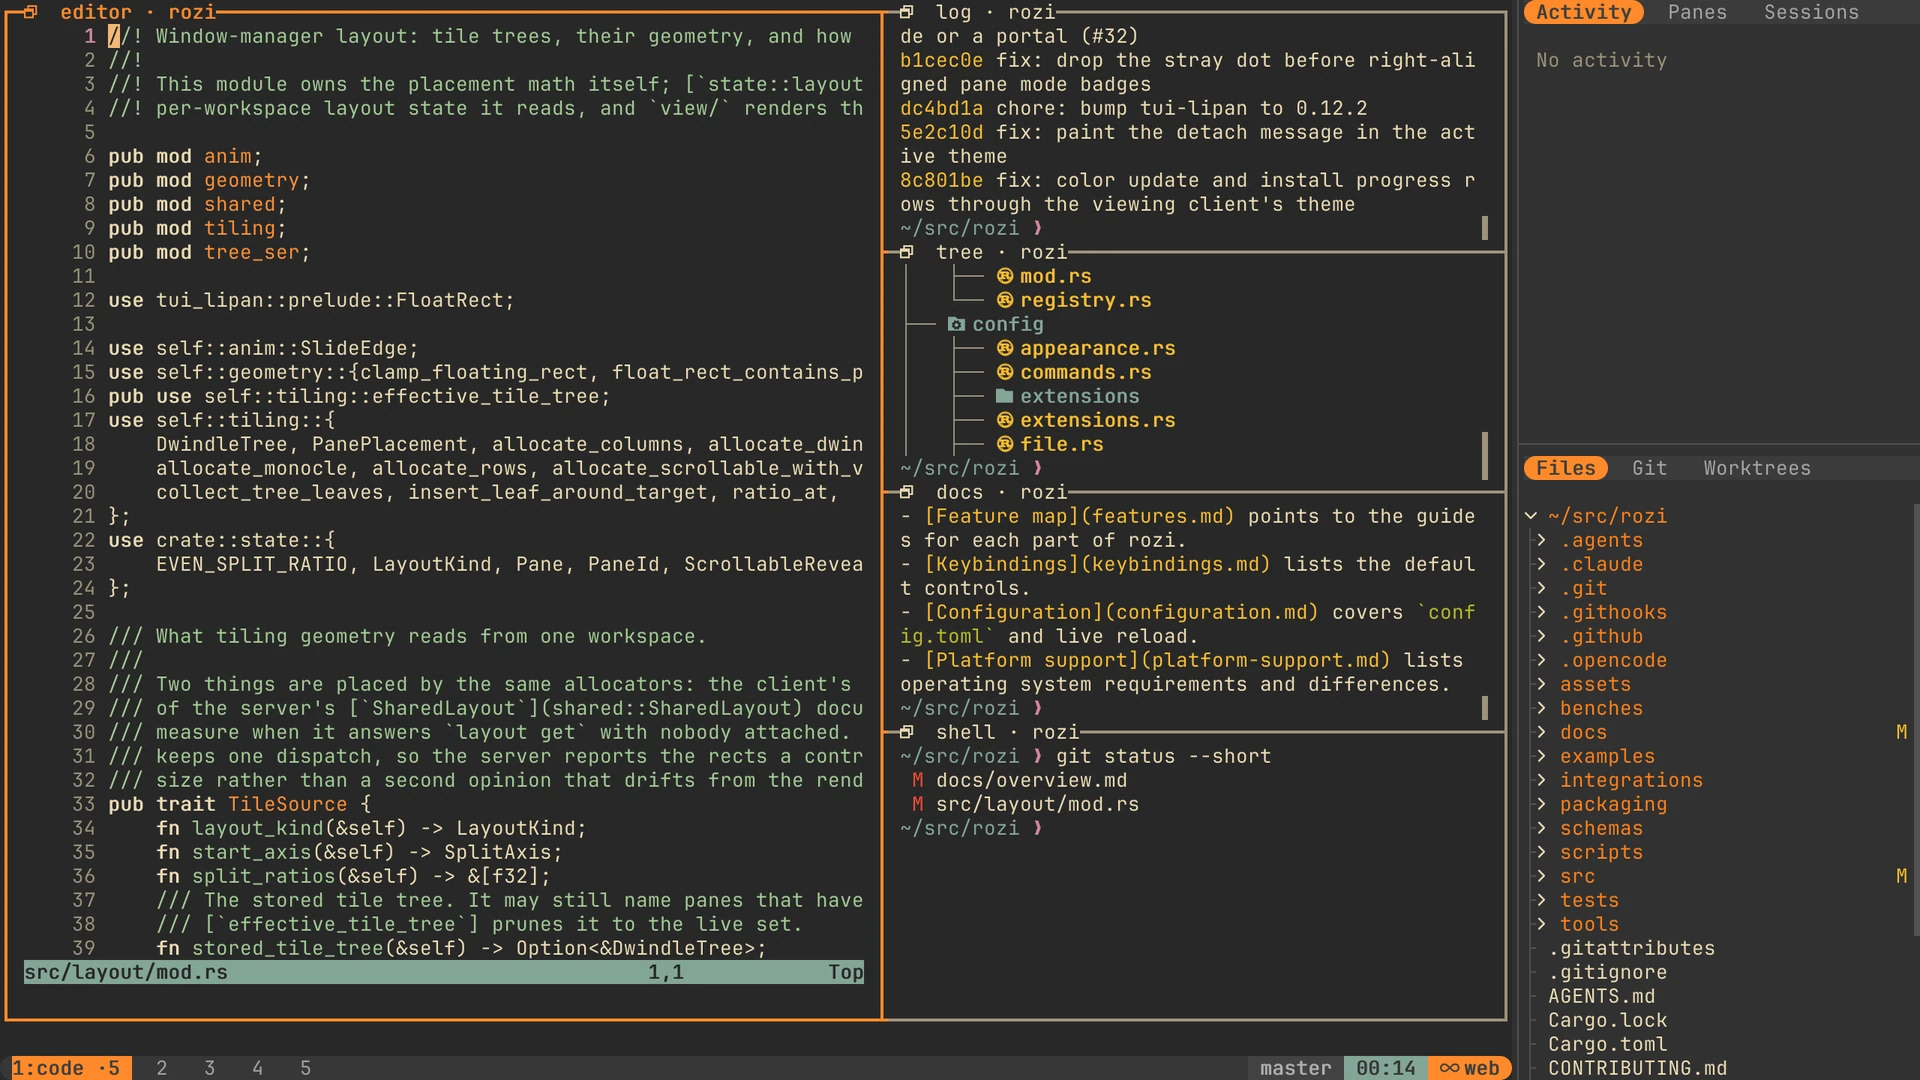
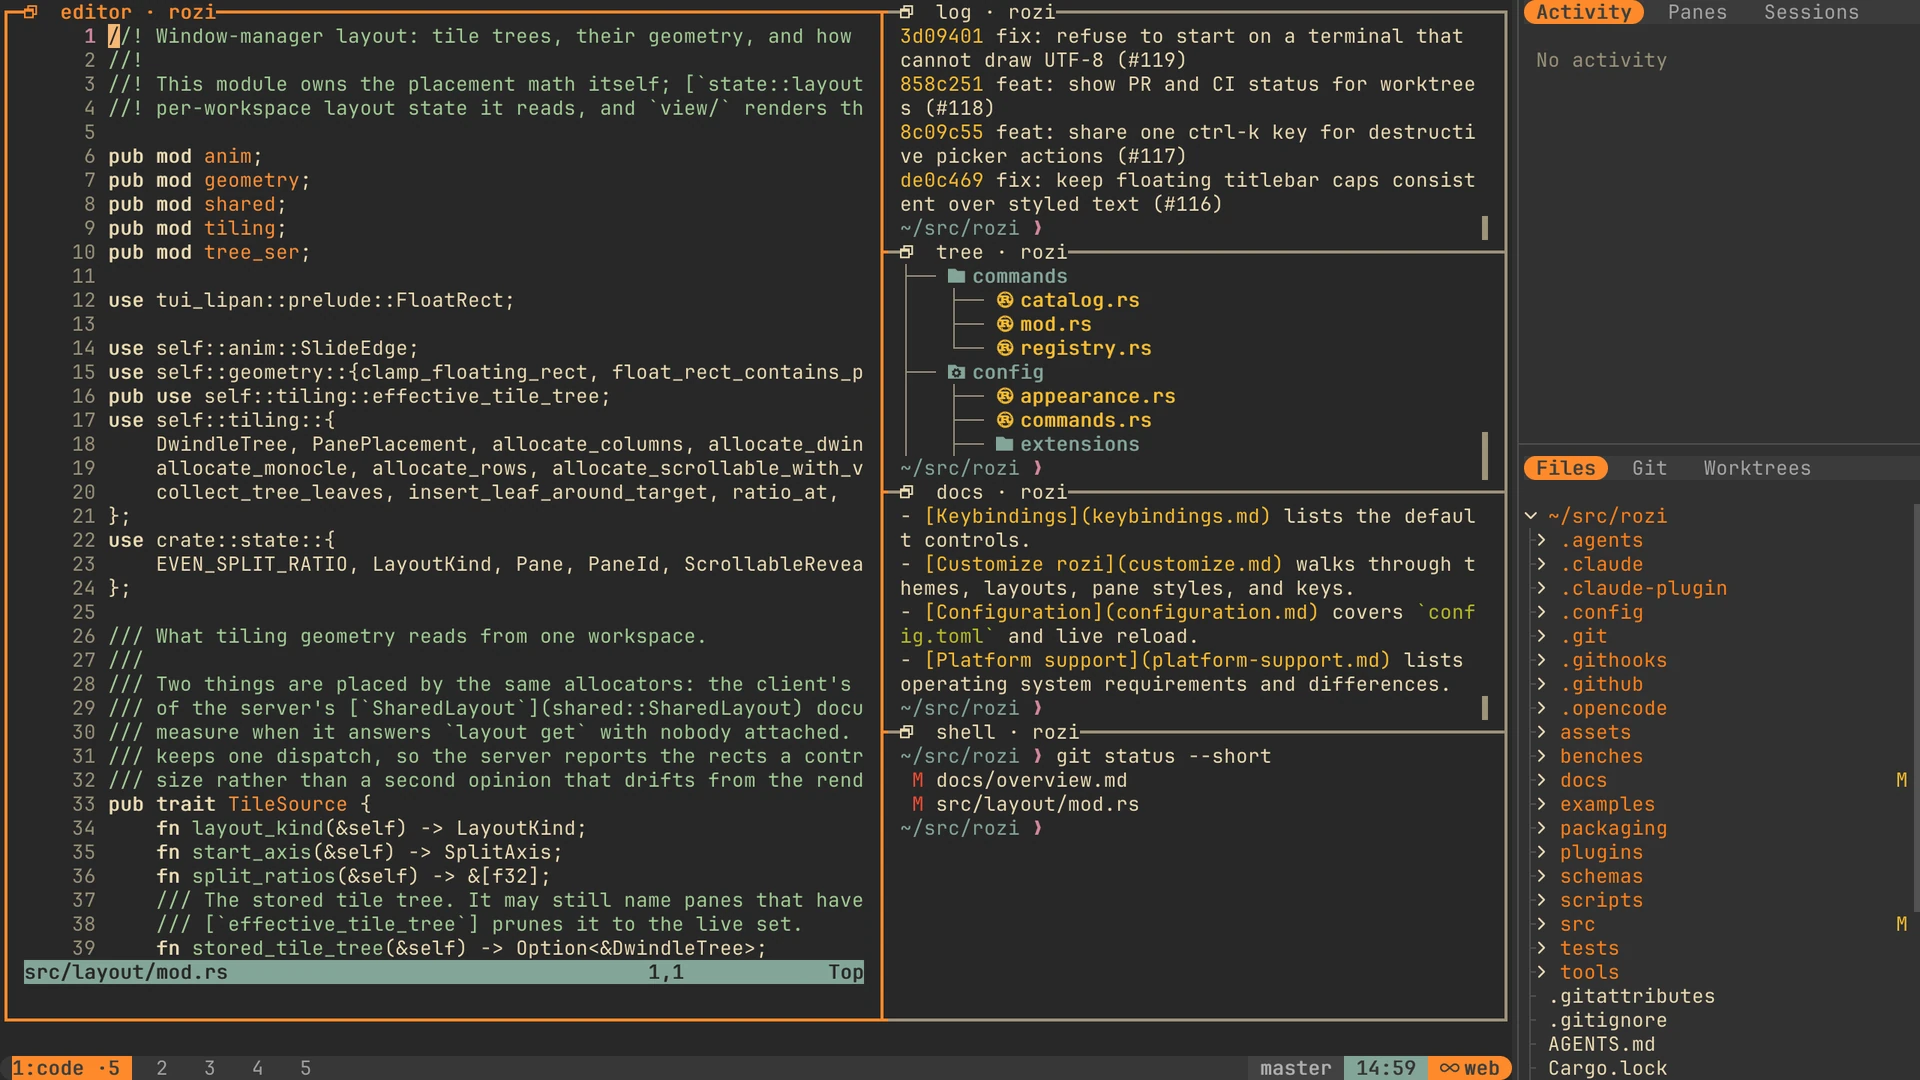
docs: explain sidebar docking and capture the redesigned UI

diff --git a/docs/sidebar.md b/docs/sidebar.md
@@ -1,13 +1,14 @@
 # Sidebar
 
-The sidebar is a panel beside your panes with tabs for agent activity, panes, sessions, files, Git
-changes, and worktrees. This page covers opening and navigating it, what each tab shows, and how to
+The sidebar provides optional left and right docks beside your panes with tabs for agent activity,
+panes, sessions, files, Git changes, and worktrees. This page covers opening and navigating it, what each tab shows, and how to
 configure tabs or add your own.
 
 The sidebar belongs to your client. It is never part of a shared session layout.
 
 <CaptureGallery title="~/src/rozi — web">
 <img src="./assets/captures/sidebar.webp" alt="The sidebar on the left showing the Panes tab, listing each pane in the workspace beside the panes themselves" data-caption="The Panes tab lists every pane in the session. Ctrl+A, then PageDown moves to the next tab.">
+<img src="./assets/captures/sidebar-docks.webp" alt="Left and right sidebar docks with three independently sized panels each" data-label="Two docks" data-caption="Both docks share space with the workspace; panel assignments survive compaction.">
 </CaptureGallery>
 
 ## Open the sidebar
@@ -23,7 +24,9 @@ While the sidebar is visible, these command keys work without focusing it:
 | `PageUp` | Previous tab |
 | `\` | Switch between one and two panels |
 
-Switching to one panel keeps both panels' tab assignments, so switching back restores them.
+Choose one to three panels independently for each dock in **Settings → Bars → Sidebar**. Highlighting a
+choice leaves the layout unchanged; confirm it to apply. The `\` command and focused `s` key toggle
+one and two panels in the active dock.
 
 Clicking a row runs its action without moving keyboard focus away from the pane. The sidebar is not
 part of the normal `Tab` focus order.
@@ -42,8 +45,9 @@ After the `B` command key focuses the sidebar:
 | `Tab`, `Shift+Tab` | Next or previous tab |
 | `h/l`, arrows, `Space` | Collapse, expand, or toggle directories |
 | `Ctrl+Shift+Left/Right`, `Ctrl+Shift+h/l` | Reorder the active tab |
-| `Ctrl+Up/Down`, `Ctrl+k/j` | Focus the other panel |
-| `Ctrl+Shift+Up/Down`, `Ctrl+Shift+k/j` | Move the active tab to the other panel |
+| `Ctrl+Up/Down`, `Ctrl+k/j` | Focus the previous or next panel in this dock |
+| `Ctrl+Left/Right`, `Ctrl+h/l` | Focus the other dock |
+| `Ctrl+Shift+Up/Down`, `Ctrl+Shift+k/j` | Move the active tab to the previous or next panel |
 | `Shift+Left/Right`, `Shift+h/l` | Resize the sidebar |
 | `Shift+Up/Down`, `Shift+k/j` | Resize the panel split |
 | `s` | Toggle one or two panels |
@@ -52,7 +56,8 @@ After the `B` command key focuses the sidebar:
 With the mouse, drag the sidebar's outer edge to resize it, within the same 16 to 80 columns that
 `width` allows. Drag the divider between panels to change the split.
 
-rozi saves tab order, panel assignment, width, split state, and split ratio to `config.toml`.
+rozi saves tab order, visibility preferences, placement, dock widths, panel counts, and panel weights
+to `config.toml`.
 Whether the sidebar is visible and which tab is selected are not saved.
 
 ## Activity
@@ -140,7 +145,7 @@ repository, when it is loading, or when changes are unavailable. In a remote ses
 on the remote host's `PATH`.
 
 Files and Git refresh while they are on screen. They stop refreshing when you hide the sidebar or
-switch both panels to other tabs.
+switch every visible panel to other tabs.
 
 ## Worktrees
 
@@ -184,31 +189,51 @@ settings.
 
 ## Configure tabs and panels
 
+<CaptureGallery title="Manage Sidebar Tabs">
+<img src="./assets/captures/sidebar-manager.webp" alt="The searchable Sidebar Tabs manager showing each tab's visibility and dock location" data-caption="Select a tab to show, hide, locate, or move it. Ctrl+P opens layout presets.">
+</CaptureGallery>
+
+Open **Manage Sidebar Tabs** from Settings or the command palette. Search by name, then select a tab
+to show or hide it, assign it to a dock and panel, or locate it. The manager distinguishes available,
+hidden, and unavailable tabs. Empty panels remain drag targets, and the manager is available even
+when every tab is hidden. Use `Ctrl+P` in the manager to select and apply a layout preset.
+
+**Left sidebar** and **Right sidebar** toggle docks independently. The global `b` command hides or
+restores the current combination. **Focus other sidebar dock** and **Move sidebar tab to other dock**
+are also available in the command palette and can be bound by their action IDs,
+`sidebar-other-dock` and `sidebar-move-to-other-dock`.
+
 ```toml
 [sidebar]
-visible = false
-width = 32
-position = "left"
 tabs = ["activity", "panes", "sessions", "files", "git", "worktrees"]
-panels = [["activity", "panes", "sessions"], ["files", "git", "worktrees"]]
-split = true
-split_ratio = 0.5
+layout = { left = { visible = true, width = 32, panel_count = 2, panels = [
+  { weight = 0.4, tabs = ["activity", "panes", "sessions"] },
+  { weight = 0.6, tabs = ["files", "git", "worktrees"] },
+] }, right = { visible = false, width = 32, panel_count = 1, panels = [{ weight = 1.0, tabs = [] }] }, hidden = [] }
 background_follows_canvas = false
 gap = true
 background = true
 tab_style = "padded"
 ```
 
-| Key | Effect |
-| --- | --- |
-| `tabs` | Available tabs, by id. A repeated id is ignored after its first use. |
-| `panels` | Which tabs go in the top and bottom panel. Without `panels`, all tabs share one panel. |
-| `split` | `false` shows one panel but keeps both saved groups. |
-| `position` | `"left"` or `"right"`. Also available under **Settings → Position**. |
-| `background_follows_canvas` | Paint the sidebar with the canvas backdrop instead of the raised panel fill. |
-| `gap` | Keep one blank row between each tab bar and its list. |
-| `background` | Paint the tab strip as a distinct bar. When off, the strip matches the list below it. |
-| `tab_style` | `padded`, `round`, or `arrow` — the same end caps as workbar tabs. |
+The `layout` value may also be written using nested TOML tables. Every tab has one saved location.
+Reducing a dock's panel count folds surplus groups into its last displayed panel. Increasing it
+restores those groups and their proportions. Reordering a compacted group changes the order within
+each tab's saved home panel; transferring to another displayed panel or dock changes its home.
+Hiding a tab or dock preserves assignments. Narrow terminals temporarily reduce both dock widths
+while leaving the saved widths intact. The central workspace keeps at least 20 columns when the
+terminal has room; terminals of 20 columns or fewer retain at least half for the workspace.
+
+`background_follows_canvas`, `gap`, `background`, and `tab_style` apply to both docks. These keep the
+same appearance controls as the former sidebar.
+
+### Migrate an existing configuration
+
+The former `visible`, `width`, `position`, `panels`, `split`, and `split_ratio` keys produce an explicit
+migration diagnostic. rozi resolves them into `layout` in memory, preserving unknown tab IDs and
+custom definitions. The next layout save writes `layout` and removes those geometry keys. You can
+also replace them manually using the example above. An explicit `layout` takes precedence. Saves
+preserve tab definitions and unrelated settings; malformed TOML is reported and left untouched.
 
 When `background` is on, the tab strip uses a raised sidebar fill, or the `element` colour when
 `background_follows_canvas` is on.
@@ -279,8 +304,8 @@ evaluate it. `{line}` is rejected in `run` and
 ### Extension sidebar tabs
 
 Extensions add tabs with `[[sidebar_tabs]]` in their manifest, using the same launcher and command
-forms. Their ids are `<extension>.<name>`. They start in the first panel until you move them, and
-their placement is kept even while the extension is disabled or broken. See
+forms. Their ids are `<extension>.<name>`. They may suggest an initial dock and panel. Your saved placement takes precedence and survives
+disablement, failed loads, updates, removal, and reinstallation. See
 [Extensions](extensions.md#sidebar-tabs).
 
 ### Security

diff --git a/docs/configuration.md b/docs/configuration.md
@@ -572,21 +572,22 @@ See [Popups and scratch panes](layouts-and-panes.md#popups-and-scratch-panes).
 
 | Key | Type | Default | Constraints and behavior |
 | --- | --- | --- | --- |
-| `visible` | bool | `false` | Whether the sidebar is open at startup. |
-| `width` | integer | `32` | Clamped to `16..=80`. |
-| `position` | string | `"left"` | `"left"` or `"right"`. |
-| `tabs` | array | `["activity", "panes", "sessions", "files", "git", "worktrees"]` | Replaces the list of available tabs. IDs must be unique. |
-| `panels` | array of one or two string arrays | `[["activity", "panes", "sessions"], ["files", "git", "worktrees"]]` | Orders tab IDs into panels. Unknown and duplicate IDs are skipped. |
-| `split` | bool | `true`, or inferred from the number of panels | Shows two panels. |
-| `split_ratio` | float | `0.4` | Finite value clamped to `0.15..=0.85`. |
+| `tabs` | array | `["activity", "panes", "sessions", "files", "git", "worktrees"]` | Tab definitions. IDs must be unique; hiding a tab does not remove its definition. |
+| `layout.left`, `layout.right` | table | See below | Independent dock preferences. |
+| `layout.hidden` | string array | `[]` | Hidden tab IDs; placement and definitions remain saved. |
+| `layout.<dock>.visible` | bool | `false` | Startup visibility. Runtime toggles remain client-local. |
+| `layout.<dock>.width` | integer | `32` | Clamped to `16..=80`; both docks share the available width. |
+| `layout.<dock>.panel_count` | integer | left `2`, right `1` | `1..=3`; reducing the count retains saved panels. |
+| `layout.<dock>.panels` | table array | left session/repository groups, right empty | Each table contains `weight` (finite, positive) and ordered `tabs` (IDs). Unknown IDs retain their placement. |
 | `background_follows_canvas` | bool | `false` | Paints the sidebar with the canvas background instead of the raised panel fill. |
 | `gap` | bool | `true` | Keeps one row between each panel's tab bar and its list. |
 | `background` | bool | `true` | Paints the tab strip as a distinct bar: a raised sidebar fill, or `element` when the sidebar follows the canvas. Off, the strip matches the body. |
 | `tab_style` | string | `"padded"` | `"padded"`, `"round"`, or `"arrow"`. Round and arrow need `nerd_icons`. |
 
-A configured tab that `panels` leaves out is added to the first panel, except `worktrees`, which
-joins the panel holding `git` or `files`. A `panels` entry naming an extension tab that is not
-currently loaded is kept without a warning.
+Unplaced tabs join the first left panel; Files, Git, and Worktrees join the second. Extension
+suggestions apply only to tabs without a saved placement. The default left panel weights are `0.4`
+and `0.6`; the right panel weight is `1.0`. See [Sidebar](sidebar.md#configure-tabs-and-panels)
+for restoration rules, the tab manager, and migration from the former geometry keys.
 
 ### Tab tables
 

diff --git a/docs/extensions.md b/docs/extensions.md
@@ -750,11 +750,24 @@ A tab's public ID is `<extension-id>.<name>`, so an extension can add tabs but n
 built-in one. If a `config.toml` tab has the same ID, it wins and the extension's tab is skipped.
 Out-of-range values are clamped without a warning, unlike the same settings in `config.toml`.
 
-Extension tabs go in the first panel unless `[sidebar] panels` already places them. Users can drag
-them anywhere, and `rozi` remembers the arrangement as it does for built-in tabs. A placement for a
-tab whose extension is disabled, updating, or failing to load is kept silently and restored when the
-extension returns. It is dropped only after the extension is gone from disk, and only the next time
-the user rearranges the sidebar; `rozi` never rewrites the layout on load.
+An extension tab may declare `suggested_location = { dock = "right", panel = 2 }`, with a one-based
+panel number from 1 to 3. An explicit saved placement wins. Tabs without a suggestion start in the
+first left panel. The user's hidden state and placement survive disabling, failed loads, updates,
+removal, and reinstallation. Unavailable tabs remain listed in **Manage Sidebar Tabs**.
+
+Extensions may also declare `[[sidebar_presets]]` with `name`, `label`, and `layout`. The layout uses
+the same `left`, `right`, and `hidden` fields as `[sidebar] layout`. Names of this extension's tabs
+are automatically namespaced inside panel tab lists. Preset names become `<extension>.<name>`.
+Users select and apply a preset through `Ctrl+P` in **Manage Sidebar Tabs**; installing or reloading
+an extension never applies one. Applying copies the preset into user preferences, preserving saved
+assignments omitted by the preset. Later edits belong to the user.
+
+```toml
+[[sidebar_presets]]
+name = "review"
+label = "Review workspace"
+layout = { right = { visible = true, panel_count = 1, panels = [{ weight = 1.0, tabs = ["agents"] }] } }
+```
 
 ### Navigation targets
 

diff --git a/.agents/skills/rozi-extension/SKILL.md b/.agents/skills/rozi-extension/SKILL.md
@@ -133,7 +133,7 @@ entries = [
   never substituted for a built-in one, and a `config.toml` tab of the same id wins. Out-of-range
   values are clamped silently here rather than warned about. Full format in `docs/extensions.md`.
 - A user may drag an extension tab anywhere; that placement is persisted and survives the extension
-  being disabled or failing to load, and is only dropped once the extension leaves the disk.
+  being disabled, failing to load, removed, or reinstalled. `suggested_location` can propose an initial dock and one-based panel; user placement wins. Named `[[sidebar_presets]]` require explicit user application through the tab manager.
 - A tab's processes receive the same `ROZI_EXTENSION*` environment a command does, settings
   included.
 - A command tab runs in the focused pane's working directory and re-lists when that changes. Its

diff --git a/docs/features.md b/docs/features.md
@@ -40,7 +40,9 @@ See [Sessions](sessions.md), [Remote sessions](remote.md), [Profiles](profiles.m
 ## Find and monitor work
 
 - Open commands from a searchable palette and inspect active bindings in the help overlay.
-- Use the sidebar to browse panes, sessions, files, Git changes, and coding-agent activity.
+- Use independent left and right sidebars with up to three panels each to browse panes, sessions,
+  files, Git changes, and coding-agent activity. Resize panels, move tabs between docks, and manage
+  hidden or unavailable tabs through a searchable picker.
 - See at a glance whether each coding agent is working, blocked on your input, or finished.
 - Jump to panes that need input and show alerts in pane borders or workspace tabs.
 - See which agents want attention on a connected remote host, without attaching to a session there.

diff --git a/docs/customize.md b/docs/customize.md
@@ -226,9 +226,7 @@ change them with the mouse or keys. To choose where it sits and whether it opens
 
 ```toml
 [sidebar]
-visible = true
-position = "right"
-width = 36
+layout = { right = { visible = true, width = 36, panel_count = 2, panels = [{ weight = 0.4, tabs = ["activity", "panes", "sessions"] }, { weight = 0.6, tabs = ["files", "git", "worktrees"] }] } }
 tab_style = "round"
 ```
 
@@ -340,9 +338,7 @@ right = ["layout", "clock", "session"]
 clock_format = "%H:%M"
 
 [sidebar]
-visible = true
-position = "right"
-width = 34
+layout = { right = { visible = true, width = 34, panel_count = 2, panels = [{ weight = 0.4, tabs = ["activity", "panes", "sessions"] }, { weight = 0.6, tabs = ["files", "git", "worktrees"] }] } }
 tab_style = "round"
 
 [animations]

diff --git a/docs/keybindings.md b/docs/keybindings.md
@@ -216,7 +216,8 @@ After the `B` command key focuses the sidebar:
 | `Tab`, `Shift+Tab` | Next or previous tab |
 | `h/l`, arrows, `Space` | Collapse, expand, or toggle file-tree directories |
 | `Ctrl+Shift+Left/Right`, `Ctrl+Shift+h/l` | Reorder the active tab |
-| `Ctrl+Up/Down`, `Ctrl+k/j` | Focus the other panel |
+| `Ctrl+Up/Down`, `Ctrl+k/j` | Focus the previous or next panel in this dock |
+| `Ctrl+Left/Right`, `Ctrl+h/l` | Focus the other dock |
 | `Ctrl+Shift+Up/Down`, `Ctrl+Shift+k/j` | Move the active tab between panels |
 | `Shift+Left/Right`, `Shift+h/l` | Resize the sidebar |
 | `Shift+Up/Down`, `Shift+k/j` | Resize the panel split |
